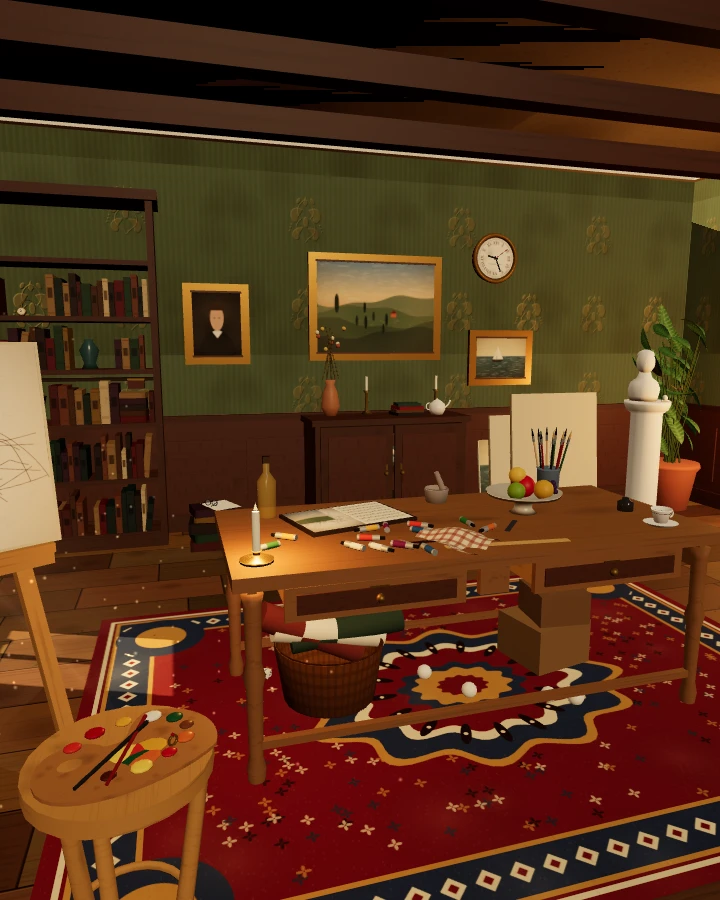
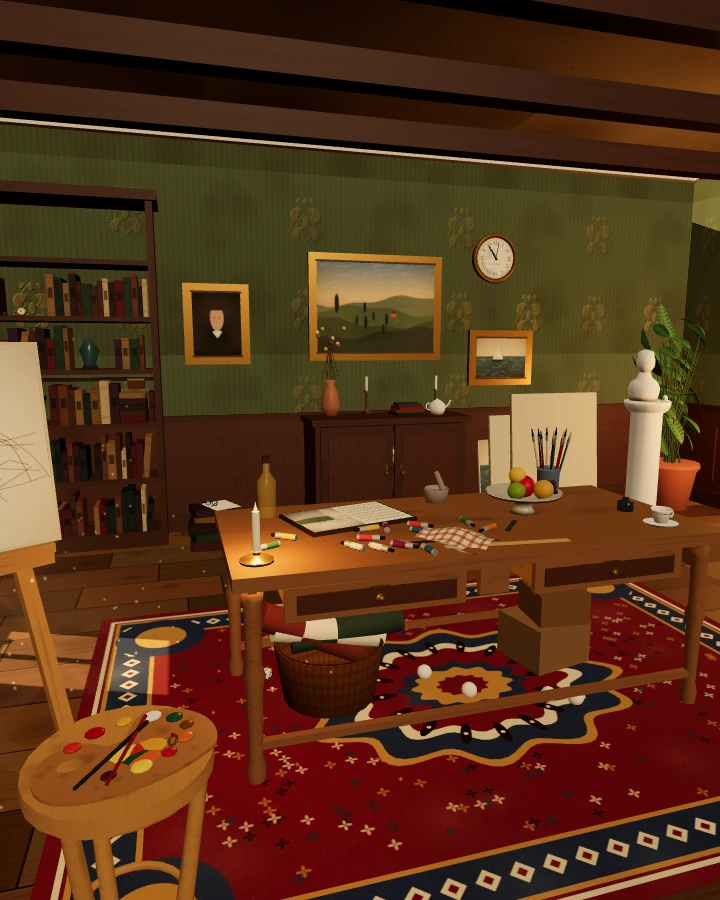
Ache-me: teto e paredes sem piscar (casca, vigas e molduras não ficam mais coladas), câmera não atravessa móveis, dá para olhar para cima embaixo da mesa, capa refeita (v84)

diff --git a/jogos/keenlight/index.html b/jogos/keenlight/index.html
@@ -997,24 +997,24 @@ function criarAtelie(cena) {
   parede(jz1 - jz0, H - jy1, -W, (H + jy1) / 2, (jz0 + jz1) / 2, PI / 2, [1, .55]);
   // paredes grossas por fora, para a sombra do sol só entrar pela janela
   const casca = mat('#3a2c20', { r: 1 });
-  em(raiz, caixa(.2, H, D + jz0, casca), -W - .1, H / 2, (-D + jz0) / 2); em(raiz, caixa(.2, H, D - jz1 + .4, casca), -W - .1, H / 2, (D + jz1) / 2 + .2);
-  em(raiz, caixa(.2, jy0, jz1 - jz0, casca), -W - .1, jy0 / 2, (jz0 + jz1) / 2); em(raiz, caixa(.2, H - jy1, jz1 - jz0, casca), -W - .1, (H + jy1) / 2, (jz0 + jz1) / 2);
-  em(raiz, caixa(2 * W + .4, .2, 2 * D + .4, casca), 0, H + .1, 0);
+  em(raiz, caixa(.2, H, D + jz0, casca), -W - .12, H / 2, (-D + jz0) / 2); em(raiz, caixa(.2, H, D - jz1 + .4, casca), -W - .12, H / 2, (D + jz1) / 2 + .2);
+  em(raiz, caixa(.2, jy0, jz1 - jz0, casca), -W - .12, jy0 / 2, (jz0 + jz1) / 2); em(raiz, caixa(.2, H - jy1, jz1 - jz0, casca), -W - .12, (H + jy1) / 2, (jz0 + jz1) / 2);
+  em(raiz, caixa(2 * W + .4, .2, 2 * D + .4, casca), 0, H + .12, 0);
   // teto e vigas
   const teto = em(raiz, malha(new THREE.PlaneGeometry(2 * W, 2 * D), mat('#ffffff', { map: tTeto, r: 1 })), 0, H, 0, PI / 2);
-  for (let i = 0; i < 5; i++) em(raiz, caixa(2 * W, .18, .16, nogueira), 0, H - .09, -2 + i * 1.05);
+  for (let i = 0; i < 5; i++) em(raiz, caixa(2 * W, .18, .16, nogueira), 0, H - .095, -2 + i * 1.05);
   // lambri, rodapé e moldura
   const lamb = (comp, x, z, ry) => {
-    const g = em(raiz, grupo(), x, 0, z, 0, ry);
+    const g = em(raiz, grupo(), x, ry ? .004 : 0, z, 0, ry);   // paredes laterais 4 mm acima: as molduras não se sobrepõem nos cantos
     em(g, caixa(comp, .92, .03, lambri), 0, .46, .015);
     const n = Math.max(1, Math.round(comp / .62));
     for (let i = 0; i < n; i++) { const pw = comp / n - .12; em(g, caixa(pw, .52, .018, lambri), -comp / 2 + (i + .5) * comp / n, .5, .035); }
     em(g, caixa(comp, .14, .05, nogueira), 0, .07, .025); em(g, caixa(comp, .05, .06, nogueira), 0, .94, .03);
-    em(g, caixa(comp, .1, .07, creme), 0, H - .05, .035);
+    em(g, caixa(comp, .1, .07, creme), 0, H - .056, .035);
   };
   lamb(2 * W, 0, -D, 0); lamb(2 * D, W, 0, -PI / 2);
   lamb(D + jz0, -W, (-D + jz0) / 2, PI / 2); lamb(D - jz1, -W, (D + jz1) / 2, PI / 2);
-  { const g = em(raiz, grupo(), -W, 0, (jz0 + jz1) / 2, 0, PI / 2); em(g, caixa(jz1 - jz0, .9, .03, lambri), 0, .45, .015); em(g, caixa(jz1 - jz0, .14, .05, nogueira), 0, .07, .025); em(g, caixa(jz1 - jz0, .1, .07, creme), 0, H - .05, .035); }
+  { const g = em(raiz, grupo(), -W, 0, (jz0 + jz1) / 2, 0, PI / 2); em(g, caixa(jz1 - jz0, .9, .03, lambri), 0, .45, .015); em(g, caixa(jz1 - jz0, .14, .05, nogueira), 0, .07, .025); em(g, caixa(jz1 - jz0, .1, .07, creme), 0, H - .056, .035); }
 
   /* =========== janela, céu e cortinas =========== */
   const ceu = em(raiz, new THREE.Mesh(new THREE.PlaneGeometry(4, 3), new THREE.MeshBasicMaterial({ map: Tex.ceu() })), -W - 1.4, 1.7, (jz0 + jz1) / 2, 0, PI / 2);
@@ -1401,7 +1401,7 @@ function criarAtelie(cena) {
 
   return {
     nome: 'O Ateliê do Pintor', raiz, itens, interativos,
-    camera: { alvo: [-.15, 1.0, -.35], dist: 4.75, az: 0, el: .2, fov: 50, az0: -.8, az1: .8, el0: -.14, el1: .9, d0: .32, d1: 5.3,
+    camera: { alvo: [-.15, 1.0, -.35], dist: 4.75, az: 0, el: .2, fov: 50, az0: -.8, az1: .8, el0: -.55, el1: .9, d0: .32, d1: 5.3,
       caixaAlvo: [[-3.36, .08, -2.36], [3.36, 2.7, 2.2]], caixaCam: [[-3.38, .1, -2.38], [3.38, 3.05, 6.5]] },
     fundo: '#1d1712',
     atualizar(t, dt) { animados.forEach(f => f(t, dt)); }
@@ -2382,13 +2382,13 @@ function criarBiblioteca(cena) {
   const pe = (w, h, y, z) => em(raiz, malha(new THREE.PlaneGeometry(w, h), parede), -W, y, z, 0, PI / 2);
   pe(D + jz0, H, H / 2, (-D + jz0) / 2); pe(D - jz1, H, H / 2, (D + jz1) / 2); pe(jz1 - jz0, jy0, jy0 / 2, (jz0 + jz1) / 2); pe(jz1 - jz0, H - jy1, (H + jy1) / 2, (jz0 + jz1) / 2);
   const casca = mat('#2a201a', { r: 1 });
-  em(raiz, caixa(.2, H, D + jz0, casca), -W - .1, H / 2, (-D + jz0) / 2); em(raiz, caixa(.2, H, D - jz1 + .4, casca), -W - .1, H / 2, (D + jz1) / 2 + .2);
-  em(raiz, caixa(.2, jy0, jz1 - jz0, casca), -W - .1, jy0 / 2, (jz0 + jz1) / 2); em(raiz, caixa(.2, H - jy1, jz1 - jz0, casca), -W - .1, (H + jy1) / 2, (jz0 + jz1) / 2);
-  em(raiz, caixa(2 * W + .4, .2, 2 * D + .4, casca), 0, H + .1, 0);
+  em(raiz, caixa(.2, H, D + jz0, casca), -W - .12, H / 2, (-D + jz0) / 2); em(raiz, caixa(.2, H, D - jz1 + .4, casca), -W - .12, H / 2, (D + jz1) / 2 + .2);
+  em(raiz, caixa(.2, jy0, jz1 - jz0, casca), -W - .12, jy0 / 2, (jz0 + jz1) / 2); em(raiz, caixa(.2, H - jy1, jz1 - jz0, casca), -W - .12, (H + jy1) / 2, (jz0 + jz1) / 2);
+  em(raiz, caixa(2 * W + .4, .2, 2 * D + .4, casca), 0, H + .12, 0);
   // teto em caixotões
   em(raiz, malha(new THREE.PlaneGeometry(2 * W, 2 * D), mat('#3a2a1e', { r: .8 })), 0, H, 0, PI / 2);
-  for (let i = -3; i <= 3; i++) em(raiz, caixa(.1, .14, 2 * D, mogno), i, H - .07, 0);
-  for (let j = -2; j <= 2; j++) em(raiz, caixa(2 * W, .14, .1, mogno), 0, H - .07, j);
+  for (let i = -3; i <= 3; i++) em(raiz, caixa(.1, .14, 2 * D, mogno), i, H - .075, 0);
+  for (let j = -2; j <= 2; j++) em(raiz, caixa(2 * W, .155, .1, mogno), 0, H - .085, j);   // mais baixa que a outra: no cruzamento não piscam
   // céu noturno lá fora
   const ceuT = (() => { const c = document.createElement('canvas'); c.width = c.height = 256; const x = c.getContext('2d'); const gr = x.createLinearGradient(0, 0, 0, 256); gr.addColorStop(0, '#2a3040'); gr.addColorStop(1, '#6a6a7a'); x.fillStyle = gr; x.fillRect(0, 0, 256, 256); for (let i = 0; i < 80; i++) { x.fillStyle = 'rgba(255,255,240,.8)'; x.fillRect(Math.random() * 256, Math.random() * 160, 1.5, 1.5); } x.fillStyle = '#f0ecd8'; x.beginPath(); x.arc(190, 60, 18, 0, 7); x.fill(); x.fillStyle = '#1a1e24'; x.beginPath(); x.moveTo(0, 256); for (let i = 0; i <= 256; i += 16) x.lineTo(i, 200 + Math.sin(i * .05) * 20); x.lineTo(256, 256); x.fill(); const t = new THREE.CanvasTexture(c); t.colorSpace = THREE.SRGBColorSpace; return t; })();
   em(raiz, new THREE.Mesh(new THREE.PlaneGeometry(4, 4), new THREE.MeshBasicMaterial({ map: ceuT })), -W - 1.2, 2, (jz0 + jz1) / 2, 0, PI / 2).userData.semClique = true;
@@ -2398,7 +2398,7 @@ function criarBiblioteca(cena) {
   em(jan, caixa(.04, jh, .06, mognoEsc), 0, (jy0 + jy1) / 2, -.03); for (let k = 1; k < 4; k++) em(jan, caixa(jw, .03, .06, mognoEsc), 0, jy0 + k * jh / 4, -.03);
   em(jan, malha(new THREE.PlaneGeometry(jw, jh), mat('#9aaab8', { r: .05, t: .18 })), 0, (jy0 + jy1) / 2, -.05).castShadow = false;
   // lambri escuro em volta
-  const lamb = (comp, x, z, ry) => { const g = em(raiz, grupo(), x, 0, z, 0, ry); em(g, caixa(comp, 1.0, .03, mognoEsc), 0, .5, .015); em(g, caixa(comp, .05, .06, mogno), 0, 1.0, .03); em(g, caixa(comp, .15, .05, mogno), 0, .075, .025); };
+  const lamb = (comp, x, z, ry) => { const g = em(raiz, grupo(), x, ry ? .004 : 0, z, 0, ry); em(g, caixa(comp, 1.0, .03, mognoEsc), 0, .5, .015); em(g, caixa(comp, .05, .06, mogno), 0, 1.0, .03); em(g, caixa(comp, .15, .05, mogno), 0, .075, .025); };
   lamb(2 * D, W, 0, -PI / 2); lamb(D + jz0, -W, (-D + jz0) / 2, PI / 2); lamb(D - jz1, -W, (D + jz1) / 2, PI / 2);
 
   /* =========== estantes do fundo (livros instanciados) =========== */
@@ -2626,7 +2626,7 @@ function criarBiblioteca(cena) {
 
   return {
     nome: 'Biblioteca Secreta', modo: 'silhueta', raiz, itens, interativos,
-    camera: { alvo: [-.1, 1.15, -.3], dist: 4.85, az: 0, el: .2, fov: 50, az0: -.8, az1: .8, el0: -.14, el1: .95, d0: .32, d1: 5.4,
+    camera: { alvo: [-.1, 1.15, -.3], dist: 4.85, az: 0, el: .2, fov: 50, az0: -.8, az1: .8, el0: -.55, el1: .95, d0: .32, d1: 5.4,
       caixaAlvo: [[-3.36, .08, -2.62], [3.36, 3.0, 2.2]], caixaCam: [[-3.38, .1, -2.38], [3.38, 3.25, 6.5]] },
     fundo: '#120c08',
     atualizar(t, dt) { animados.forEach(f => f(t, dt)); }
@@ -2903,7 +2903,7 @@ R.shadowMap.enabled = true; R.shadowMap.type = THREE.PCFSoftShadowMap;
 Tex.aniso = Math.min(8, R.capabilities.getMaxAnisotropy());
 canvas.addEventListener('webglcontextlost', e => { e.preventDefault(); $('semgl').hidden = false; });
 const cena = new THREE.Scene();
-const camera = new THREE.PerspectiveCamera(50, innerWidth / innerHeight, .02, 60); camera.layers.enable(1);
+const camera = new THREE.PerspectiveCamera(50, innerWidth / innerHeight, .03, 40); camera.layers.enable(1);
 
 /* ======================================================================
    VISTA 3D
@@ -2915,13 +2915,16 @@ function criarVista3D(nivel) {
   const A = ini(), atual = ini();
   const prender = p => { p.x = lim(p.x, cx[0][0], cx[1][0]); p.y = lim(p.y, cx[0][1], cx[1][1]); p.z = lim(p.z, cx[0][2], cx[1][2]); return p; };
   const dir = new V3(), dirDe = (az, el) => dir.set(Math.sin(az) * Math.cos(el), Math.sin(el), Math.cos(az) * Math.cos(el));
-  let auto = 0;
+  let auto = 0; const raioCam = new THREE.Raycaster(); raioCam.layers.set(0);
   function camPasso(dt) {
     const k = 1 - Math.exp(-dt * 8);
     atual.alvo.lerp(A.alvo, k); atual.az += (A.az + auto - atual.az) * k; atual.el += (A.el - atual.el) * k; atual.dist += (A.dist - atual.dist) * k;
     dirDe(atual.az, atual.el);
     let tmax = atual.dist;   // não deixa a câmera sair da sala
     for (let i = 0; i < 3; i++) { const d = dir.getComponent(i), o = atual.alvo.getComponent(i); if (Math.abs(d) < 1e-6) continue; const t = ((d > 0 ? cc[1][i] : cc[0][i]) - o) / d; if (t > 0) tmax = Math.min(tmax, t); }
+    raioCam.set(atual.alvo, dir); raioCam.near = .08; raioCam.far = tmax;
+    const bate = raioCam.intersectObject(nivel.raiz, true).find(h => h.object.visible && !h.object.userData.semClique && !(h.object.material && h.object.material.transparent && h.object.material.opacity < .5));
+    if (bate) tmax = Math.max(.05, bate.distance - .06);
     camera.position.copy(atual.alvo).addScaledVector(dir, Math.max(.05, tmax)); camera.lookAt(atual.alvo);
   }
   const dr = new V3(), du = new V3();

diff --git a/ferramentas/keenlight/fonte/biblioteca.js b/ferramentas/keenlight/fonte/biblioteca.js
@@ -27,13 +27,13 @@ function criarBiblioteca(cena) {
   const pe = (w, h, y, z) => em(raiz, malha(new THREE.PlaneGeometry(w, h), parede), -W, y, z, 0, PI / 2);
   pe(D + jz0, H, H / 2, (-D + jz0) / 2); pe(D - jz1, H, H / 2, (D + jz1) / 2); pe(jz1 - jz0, jy0, jy0 / 2, (jz0 + jz1) / 2); pe(jz1 - jz0, H - jy1, (H + jy1) / 2, (jz0 + jz1) / 2);
   const casca = mat('#2a201a', { r: 1 });
-  em(raiz, caixa(.2, H, D + jz0, casca), -W - .1, H / 2, (-D + jz0) / 2); em(raiz, caixa(.2, H, D - jz1 + .4, casca), -W - .1, H / 2, (D + jz1) / 2 + .2);
-  em(raiz, caixa(.2, jy0, jz1 - jz0, casca), -W - .1, jy0 / 2, (jz0 + jz1) / 2); em(raiz, caixa(.2, H - jy1, jz1 - jz0, casca), -W - .1, (H + jy1) / 2, (jz0 + jz1) / 2);
-  em(raiz, caixa(2 * W + .4, .2, 2 * D + .4, casca), 0, H + .1, 0);
+  em(raiz, caixa(.2, H, D + jz0, casca), -W - .12, H / 2, (-D + jz0) / 2); em(raiz, caixa(.2, H, D - jz1 + .4, casca), -W - .12, H / 2, (D + jz1) / 2 + .2);
+  em(raiz, caixa(.2, jy0, jz1 - jz0, casca), -W - .12, jy0 / 2, (jz0 + jz1) / 2); em(raiz, caixa(.2, H - jy1, jz1 - jz0, casca), -W - .12, (H + jy1) / 2, (jz0 + jz1) / 2);
+  em(raiz, caixa(2 * W + .4, .2, 2 * D + .4, casca), 0, H + .12, 0);
   // teto em caixotões
   em(raiz, malha(new THREE.PlaneGeometry(2 * W, 2 * D), mat('#3a2a1e', { r: .8 })), 0, H, 0, PI / 2);
-  for (let i = -3; i <= 3; i++) em(raiz, caixa(.1, .14, 2 * D, mogno), i, H - .07, 0);
-  for (let j = -2; j <= 2; j++) em(raiz, caixa(2 * W, .14, .1, mogno), 0, H - .07, j);
+  for (let i = -3; i <= 3; i++) em(raiz, caixa(.1, .14, 2 * D, mogno), i, H - .075, 0);
+  for (let j = -2; j <= 2; j++) em(raiz, caixa(2 * W, .155, .1, mogno), 0, H - .085, j);   // mais baixa que a outra: no cruzamento não piscam
   // céu noturno lá fora
   const ceuT = (() => { const c = document.createElement('canvas'); c.width = c.height = 256; const x = c.getContext('2d'); const gr = x.createLinearGradient(0, 0, 0, 256); gr.addColorStop(0, '#2a3040'); gr.addColorStop(1, '#6a6a7a'); x.fillStyle = gr; x.fillRect(0, 0, 256, 256); for (let i = 0; i < 80; i++) { x.fillStyle = 'rgba(255,255,240,.8)'; x.fillRect(Math.random() * 256, Math.random() * 160, 1.5, 1.5); } x.fillStyle = '#f0ecd8'; x.beginPath(); x.arc(190, 60, 18, 0, 7); x.fill(); x.fillStyle = '#1a1e24'; x.beginPath(); x.moveTo(0, 256); for (let i = 0; i <= 256; i += 16) x.lineTo(i, 200 + Math.sin(i * .05) * 20); x.lineTo(256, 256); x.fill(); const t = new THREE.CanvasTexture(c); t.colorSpace = THREE.SRGBColorSpace; return t; })();
   em(raiz, new THREE.Mesh(new THREE.PlaneGeometry(4, 4), new THREE.MeshBasicMaterial({ map: ceuT })), -W - 1.2, 2, (jz0 + jz1) / 2, 0, PI / 2).userData.semClique = true;
@@ -43,7 +43,7 @@ function criarBiblioteca(cena) {
   em(jan, caixa(.04, jh, .06, mognoEsc), 0, (jy0 + jy1) / 2, -.03); for (let k = 1; k < 4; k++) em(jan, caixa(jw, .03, .06, mognoEsc), 0, jy0 + k * jh / 4, -.03);
   em(jan, malha(new THREE.PlaneGeometry(jw, jh), mat('#9aaab8', { r: .05, t: .18 })), 0, (jy0 + jy1) / 2, -.05).castShadow = false;
   // lambri escuro em volta
-  const lamb = (comp, x, z, ry) => { const g = em(raiz, grupo(), x, 0, z, 0, ry); em(g, caixa(comp, 1.0, .03, mognoEsc), 0, .5, .015); em(g, caixa(comp, .05, .06, mogno), 0, 1.0, .03); em(g, caixa(comp, .15, .05, mogno), 0, .075, .025); };
+  const lamb = (comp, x, z, ry) => { const g = em(raiz, grupo(), x, ry ? .004 : 0, z, 0, ry); em(g, caixa(comp, 1.0, .03, mognoEsc), 0, .5, .015); em(g, caixa(comp, .05, .06, mogno), 0, 1.0, .03); em(g, caixa(comp, .15, .05, mogno), 0, .075, .025); };
   lamb(2 * D, W, 0, -PI / 2); lamb(D + jz0, -W, (-D + jz0) / 2, PI / 2); lamb(D - jz1, -W, (D + jz1) / 2, PI / 2);
 
   /* =========== estantes do fundo (livros instanciados) =========== */
@@ -271,7 +271,7 @@ function criarBiblioteca(cena) {
 
   return {
     nome: 'Biblioteca Secreta', modo: 'silhueta', raiz, itens, interativos,
-    camera: { alvo: [-.1, 1.15, -.3], dist: 4.85, az: 0, el: .2, fov: 50, az0: -.8, az1: .8, el0: -.14, el1: .95, d0: .32, d1: 5.4,
+    camera: { alvo: [-.1, 1.15, -.3], dist: 4.85, az: 0, el: .2, fov: 50, az0: -.8, az1: .8, el0: -.55, el1: .95, d0: .32, d1: 5.4,
       caixaAlvo: [[-3.36, .08, -2.62], [3.36, 3.0, 2.2]], caixaCam: [[-3.38, .1, -2.38], [3.38, 3.25, 6.5]] },
     fundo: '#120c08',
     atualizar(t, dt) { animados.forEach(f => f(t, dt)); }

diff --git a/ferramentas/keenlight/fonte/quarto.js b/ferramentas/keenlight/fonte/quarto.js
@@ -32,24 +32,24 @@ function criarAtelie(cena) {
   parede(jz1 - jz0, H - jy1, -W, (H + jy1) / 2, (jz0 + jz1) / 2, PI / 2, [1, .55]);
   // paredes grossas por fora, para a sombra do sol só entrar pela janela
   const casca = mat('#3a2c20', { r: 1 });
-  em(raiz, caixa(.2, H, D + jz0, casca), -W - .1, H / 2, (-D + jz0) / 2); em(raiz, caixa(.2, H, D - jz1 + .4, casca), -W - .1, H / 2, (D + jz1) / 2 + .2);
-  em(raiz, caixa(.2, jy0, jz1 - jz0, casca), -W - .1, jy0 / 2, (jz0 + jz1) / 2); em(raiz, caixa(.2, H - jy1, jz1 - jz0, casca), -W - .1, (H + jy1) / 2, (jz0 + jz1) / 2);
-  em(raiz, caixa(2 * W + .4, .2, 2 * D + .4, casca), 0, H + .1, 0);
+  em(raiz, caixa(.2, H, D + jz0, casca), -W - .12, H / 2, (-D + jz0) / 2); em(raiz, caixa(.2, H, D - jz1 + .4, casca), -W - .12, H / 2, (D + jz1) / 2 + .2);
+  em(raiz, caixa(.2, jy0, jz1 - jz0, casca), -W - .12, jy0 / 2, (jz0 + jz1) / 2); em(raiz, caixa(.2, H - jy1, jz1 - jz0, casca), -W - .12, (H + jy1) / 2, (jz0 + jz1) / 2);
+  em(raiz, caixa(2 * W + .4, .2, 2 * D + .4, casca), 0, H + .12, 0);
   // teto e vigas
   const teto = em(raiz, malha(new THREE.PlaneGeometry(2 * W, 2 * D), mat('#ffffff', { map: tTeto, r: 1 })), 0, H, 0, PI / 2);
-  for (let i = 0; i < 5; i++) em(raiz, caixa(2 * W, .18, .16, nogueira), 0, H - .09, -2 + i * 1.05);
+  for (let i = 0; i < 5; i++) em(raiz, caixa(2 * W, .18, .16, nogueira), 0, H - .095, -2 + i * 1.05);
   // lambri, rodapé e moldura
   const lamb = (comp, x, z, ry) => {
-    const g = em(raiz, grupo(), x, 0, z, 0, ry);
+    const g = em(raiz, grupo(), x, ry ? .004 : 0, z, 0, ry);   // paredes laterais 4 mm acima: as molduras não se sobrepõem nos cantos
     em(g, caixa(comp, .92, .03, lambri), 0, .46, .015);
     const n = Math.max(1, Math.round(comp / .62));
     for (let i = 0; i < n; i++) { const pw = comp / n - .12; em(g, caixa(pw, .52, .018, lambri), -comp / 2 + (i + .5) * comp / n, .5, .035); }
     em(g, caixa(comp, .14, .05, nogueira), 0, .07, .025); em(g, caixa(comp, .05, .06, nogueira), 0, .94, .03);
-    em(g, caixa(comp, .1, .07, creme), 0, H - .05, .035);
+    em(g, caixa(comp, .1, .07, creme), 0, H - .056, .035);
   };
   lamb(2 * W, 0, -D, 0); lamb(2 * D, W, 0, -PI / 2);
   lamb(D + jz0, -W, (-D + jz0) / 2, PI / 2); lamb(D - jz1, -W, (D + jz1) / 2, PI / 2);
-  { const g = em(raiz, grupo(), -W, 0, (jz0 + jz1) / 2, 0, PI / 2); em(g, caixa(jz1 - jz0, .9, .03, lambri), 0, .45, .015); em(g, caixa(jz1 - jz0, .14, .05, nogueira), 0, .07, .025); em(g, caixa(jz1 - jz0, .1, .07, creme), 0, H - .05, .035); }
+  { const g = em(raiz, grupo(), -W, 0, (jz0 + jz1) / 2, 0, PI / 2); em(g, caixa(jz1 - jz0, .9, .03, lambri), 0, .45, .015); em(g, caixa(jz1 - jz0, .14, .05, nogueira), 0, .07, .025); em(g, caixa(jz1 - jz0, .1, .07, creme), 0, H - .056, .035); }
 
   /* =========== janela, céu e cortinas =========== */
   const ceu = em(raiz, new THREE.Mesh(new THREE.PlaneGeometry(4, 3), new THREE.MeshBasicMaterial({ map: Tex.ceu() })), -W - 1.4, 1.7, (jz0 + jz1) / 2, 0, PI / 2);
@@ -436,7 +436,7 @@ function criarAtelie(cena) {
 
   return {
     nome: 'O Ateliê do Pintor', raiz, itens, interativos,
-    camera: { alvo: [-.15, 1.0, -.35], dist: 4.75, az: 0, el: .2, fov: 50, az0: -.8, az1: .8, el0: -.14, el1: .9, d0: .32, d1: 5.3,
+    camera: { alvo: [-.15, 1.0, -.35], dist: 4.75, az: 0, el: .2, fov: 50, az0: -.8, az1: .8, el0: -.55, el1: .9, d0: .32, d1: 5.3,
       caixaAlvo: [[-3.36, .08, -2.36], [3.36, 2.7, 2.2]], caixaCam: [[-3.38, .1, -2.38], [3.38, 3.05, 6.5]] },
     fundo: '#1d1712',
     atualizar(t, dt) { animados.forEach(f => f(t, dt)); }

diff --git a/ferramentas/keenlight/fonte/jogo.js b/ferramentas/keenlight/fonte/jogo.js
@@ -33,7 +33,7 @@ R.shadowMap.enabled = true; R.shadowMap.type = THREE.PCFSoftShadowMap;
 Tex.aniso = Math.min(8, R.capabilities.getMaxAnisotropy());
 canvas.addEventListener('webglcontextlost', e => { e.preventDefault(); $('semgl').hidden = false; });
 const cena = new THREE.Scene();
-const camera = new THREE.PerspectiveCamera(50, innerWidth / innerHeight, .02, 60); camera.layers.enable(1);
+const camera = new THREE.PerspectiveCamera(50, innerWidth / innerHeight, .03, 40); camera.layers.enable(1);
 
 /* ======================================================================
    VISTA 3D
@@ -45,13 +45,16 @@ function criarVista3D(nivel) {
   const A = ini(), atual = ini();
   const prender = p => { p.x = lim(p.x, cx[0][0], cx[1][0]); p.y = lim(p.y, cx[0][1], cx[1][1]); p.z = lim(p.z, cx[0][2], cx[1][2]); return p; };
   const dir = new V3(), dirDe = (az, el) => dir.set(Math.sin(az) * Math.cos(el), Math.sin(el), Math.cos(az) * Math.cos(el));
-  let auto = 0;
+  let auto = 0; const raioCam = new THREE.Raycaster(); raioCam.layers.set(0);
   function camPasso(dt) {
     const k = 1 - Math.exp(-dt * 8);
     atual.alvo.lerp(A.alvo, k); atual.az += (A.az + auto - atual.az) * k; atual.el += (A.el - atual.el) * k; atual.dist += (A.dist - atual.dist) * k;
     dirDe(atual.az, atual.el);
     let tmax = atual.dist;   // não deixa a câmera sair da sala
     for (let i = 0; i < 3; i++) { const d = dir.getComponent(i), o = atual.alvo.getComponent(i); if (Math.abs(d) < 1e-6) continue; const t = ((d > 0 ? cc[1][i] : cc[0][i]) - o) / d; if (t > 0) tmax = Math.min(tmax, t); }
+    raioCam.set(atual.alvo, dir); raioCam.near = .08; raioCam.far = tmax;
+    const bate = raioCam.intersectObject(nivel.raiz, true).find(h => h.object.visible && !h.object.userData.semClique && !(h.object.material && h.object.material.transparent && h.object.material.opacity < .5));
+    if (bate) tmax = Math.max(.05, bate.distance - .06);
     camera.position.copy(atual.alvo).addScaledVector(dir, Math.max(.05, tmax)); camera.lookAt(atual.alvo);
   }
   const dr = new V3(), du = new V3();

diff --git a/sw.js b/sw.js
@@ -1,6 +1,6 @@
 // Funcionamento offline: guarda todos os arquivos no aparelho na primeira visita.
 // IMPORTANTE: aumente o número abaixo sempre que qualquer arquivo mudar.
-const VERSAO = 'jogos-offline-v83'; // coroa do minhoca (ex-tico's crown): sem pintura, com dicas e tiro direto
+const VERSAO = 'jogos-offline-v84'; // ache-me: teto sem piscar, câmera não atravessa móveis, olhar para cima; v83: coroa do minhoca (ex-tico's crown)
 const ARQUIVOS = [
   './', './index.html', './manifest.webmanifest',
   './css/base.css', './css/inicio.css', './js/comum.js', './js/suite.js', './js/cartas.js', './js/tabuleiro3d.js', './js/cenarios3d.js', './js/sons-palavras.js', './js/fases.js', './css/palavras.css',
